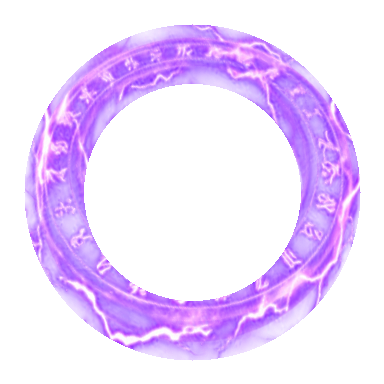
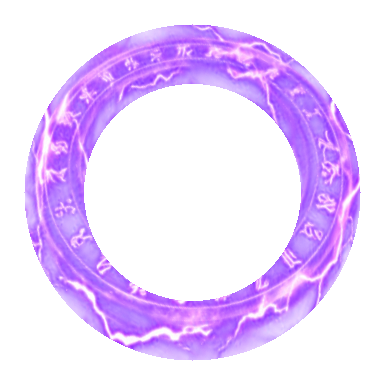
天堂網頁版：魂環顏色加濃（透明度收緊改輕、飽和度與亮度提高、呼吸最暗 88%）

diff --git a/天堂網頁版/index.html b/天堂網頁版/index.html
@@ -70,5 +70,5 @@
 <script defer src="data/item-use-data.js?v=20261105-clean17"></script>
 <script defer src="data/db-native-catalog.js?v=1"></script><script defer src="data/item-icon-overrides.js?v=clan-scroll2"></script><script defer src="data/book-icons.js?v=1"></script><script defer src="data/db-active-settings.js?v=1"></script><script defer src="data/owned-inventory.js?v=abilities1"></script>
 <script defer src="data/inventory-tools.js?v=auto-sell1"></script><script defer src="data/classic-panels.js?v=abilities1"></script>
-<script defer src="data/reference-hud.js?v=darkelf-art2"></script><script defer src="data/reference-menu.js?v=level-quests1"></script><script defer src="data/reference-skin.js?v=level-quests1"></script><script defer src="data/game-catalog-data.js?v=sys1"></script><script defer src="data/doll-dedup.js?v=1"></script><script defer src="data/transform-cards-data.js?v=original-polys1"></script><script defer src="data/monster-action-index.js?v=1"></script><script defer src="data/morph-weapon-data.js?v=1"></script><script defer src="data/death-knight-layer-data.js?v=1"></script><script defer src="data/death-knight-original-data.js?v=1"></script><script defer src="data/original-polymorph-extra-data.js?v=3"></script><script defer src="data/bow-attack-data.js?v=1"></script><script defer src="data/monster-actions.js?v=bow-animation1"></script><script defer src="data/island-monster-data.js?v=native-source1"></script><script defer src="data/dungeon-monster-data.js?v=forgotten-islands1"></script><script defer src="data/npc-clothes-data.js?v=1"></script><script defer src="data/monster-layer-data.js?v=1"></script><script defer src="data/monster-death-data.js?v=1"></script><script defer src="data/island-npc-ai.js?v=mummy-core-delay2"></script><script defer src="data/teleporter-data.js?v=1"></script><script defer src="data/island-monsters.js?v=level-quests1"></script><script defer src="data/npc-context.js?v=1"></script><script defer src="data/fake-players.js?v=independent-hunt1"></script><script defer src="data/island-combat.js?v=dex-ranged1"></script><script defer src="data/extra-transform-cards-data.js?v=all-original2"></script><script defer src="data/transform-weapon-rules.js?v=bow-animation1"></script><script defer src="data/transform-cards.js?v=all-original2"></script><script defer src="data/equipment-collection.js?v=separate-catalog-menu1"></script><script defer src="data/game-catalog.js?v=soul-slots1"></script><script defer src="data/tdj-systems-data.js?v=wuhun-gilr50"></script><script defer src="data/wuhun-boss-loop-data.js?v=1"></script><script defer src="data/wuhun-boss-gesture-data.js?v=1"></script><script defer src="data/wuhun-auto-data.js?v=wuhun-body1"></script><script defer src="data/wuhun-more-effects.js?v=1"></script><script defer src="data/wuhun-auto-cast.js?v=long-pause1"></script><script defer src="data/tdj-systems.js?v=ring-art3"></script><script defer src="data/soul-rings.js?v=soul-slots1"></script><script defer src="data/music-zones-data.js?v=1"></script><script defer src="data/island-music.js?v=zones1"></script><script defer src="data/combat-sound-data.js?v=2"></script><script defer src="data/combat-sound.js?v=1"></script><script defer src="data/island-npc-service-data.js?v=1"></script><script defer src="data/native-npc-dialog-data.js?v=1"></script><script defer src="data/native-npc-dialogs.js?v=no-craft-npc1"></script><script defer src="data/island-npc-services.js?v=no-craft-npc1"></script><script defer src="data/player-skill-data.js?v=1"></script><script defer src="data/extra-class-skills.js?v=1"></script><script defer src="data/player-skills.js?v=abilities1"></script><script defer src="data/kill-reward-data.js?v=native-source1"></script><script defer src="data/removed-items.js?v=1"></script><script defer src="data/player-progression.js?v=soul-rings1"></script><script defer src="data/player-growth-data.js?v=darkelf1"></script><script defer src="data/player-growth.js?v=combat-audit1"></script><script defer src="data/database/manifest.js?v=1"></script><script defer src="data/game-database.js?v=1"></script><script defer src="data/db-game-rules.js?v=death-proof1"></script><script defer src="data/local-server-client.js?v=lawful-colors1"></script><script defer src="data/native-potions.js?v=status-colors1"></script><script defer src="data/quick-slots.js?v=wheel2"></script><script defer src="data/quick-slot-settings.js?v=1"></script><script defer src="data/background-play.js?v=quick-home1"></script><script defer src="data/bag-details.js?v=multi-windows1"></script><script defer src="data/map-region-labels.js?v=1"></script><script defer src="data/map-overview.js?v=dungeon1"></script><script defer src="data/teleport-map-rules.js?v=quick-home1"></script><script defer src="data/teleport-scrolls.js?v=dungeon1"></script><script defer src="data/npc-effect-data.js?v=1"></script><script defer src="data/potion-effect-data.js?v=all-potions2"></script><script defer src="data/npc-effect-renderer.js?v=all-potions2"></script><script defer src="data/screen-settings.js?v=1"></script><script defer src="data/bookmarks.js?v=dungeon1"></script><script defer src="data/floating-windows.js?v=1"></script><script defer src="data/teleporter-services.js?v=1"></script><script defer src="data/auto-sell-data.js?v=1"></script><script defer src="data/auto-sell.js?v=1"></script><script defer src="data/auto-potion.js?v=abilities1"></script><script defer src="data/assist-system.js?v=abilities1"></script><script defer src="data/item-effects.js?v=2"></script><script defer src="data/player-stall.js?v=5"></script><script defer src="data/crafting-window.js?v=death-proof1"></script><script defer src="data/level-quest-data.js?v=10"></script><script defer src="data/level-quest-frames.js?v=5"></script><script defer src="data/level-quests.js?v=2"></script><script defer src="data/native-combat-rules.js?v=mummy-core-delay2"></script><script defer src="data/navigation-connectivity-data.js?v=native-source1"></script><script defer src="data/navigation-connectivity.js?v=dungeon1"></script><script defer src="data/native-collision-data.js?v=1"></script><script defer src="data/native-dungeon-maps.js?v=forgotten-islands1"></script><script defer src="data/native-collision.js?v=dungeon1"></script><script defer src="data/native-world-worker.js?v=4"></script><script defer src="data/region-background-index.js?v=forgotten-islands1"></script><script defer src="data/region-background.js?v=1"></script><script defer src="data/native-world.js?v=region-background1"></script><script defer src="data/dungeon-portals.js?v=1"></script><script defer src="data/class-buffs.js?v=mummy-core-delay2"></script><script defer src="data/summons.js?v=9"></script><script defer src="data/native-player-panels.js?v=1"></script><script defer src="data/character-bag-panels.js?v=mummy-core-delay2"></script><script defer src="data/client-classic-hud.js?v=13"></script><script defer src="data/orb-hud.js?v=round-menu18"></script><script defer src="data/overhead-bars.js?v=3"></script><script defer src="data/settings-panel.js?v=power-saving1"></script><script defer src="data/npc-social.js?v=npc-retaliation-potions1"></script><script defer src="data/diamond-commerce.js?v=1"></script><script defer src="data/portable-teleport-data.js?v=forgotten-islands1"></script><script defer src="data/portable-teleport.js?v=forgotten-islands1"></script><script defer src="data/area-loot.js?v=1"></script><script defer src="data/party-hud.js?v=1"></script><script defer src="data/player-appearance.js?v=1"></script></html>
+<script defer src="data/reference-hud.js?v=darkelf-art2"></script><script defer src="data/reference-menu.js?v=level-quests1"></script><script defer src="data/reference-skin.js?v=level-quests1"></script><script defer src="data/game-catalog-data.js?v=sys1"></script><script defer src="data/doll-dedup.js?v=1"></script><script defer src="data/transform-cards-data.js?v=original-polys1"></script><script defer src="data/monster-action-index.js?v=1"></script><script defer src="data/morph-weapon-data.js?v=1"></script><script defer src="data/death-knight-layer-data.js?v=1"></script><script defer src="data/death-knight-original-data.js?v=1"></script><script defer src="data/original-polymorph-extra-data.js?v=3"></script><script defer src="data/bow-attack-data.js?v=1"></script><script defer src="data/monster-actions.js?v=bow-animation1"></script><script defer src="data/island-monster-data.js?v=native-source1"></script><script defer src="data/dungeon-monster-data.js?v=forgotten-islands1"></script><script defer src="data/npc-clothes-data.js?v=1"></script><script defer src="data/monster-layer-data.js?v=1"></script><script defer src="data/monster-death-data.js?v=1"></script><script defer src="data/island-npc-ai.js?v=mummy-core-delay2"></script><script defer src="data/teleporter-data.js?v=1"></script><script defer src="data/island-monsters.js?v=level-quests1"></script><script defer src="data/npc-context.js?v=1"></script><script defer src="data/fake-players.js?v=independent-hunt1"></script><script defer src="data/island-combat.js?v=dex-ranged1"></script><script defer src="data/extra-transform-cards-data.js?v=all-original2"></script><script defer src="data/transform-weapon-rules.js?v=bow-animation1"></script><script defer src="data/transform-cards.js?v=all-original2"></script><script defer src="data/equipment-collection.js?v=separate-catalog-menu1"></script><script defer src="data/game-catalog.js?v=soul-slots1"></script><script defer src="data/tdj-systems-data.js?v=wuhun-gilr50"></script><script defer src="data/wuhun-boss-loop-data.js?v=1"></script><script defer src="data/wuhun-boss-gesture-data.js?v=1"></script><script defer src="data/wuhun-auto-data.js?v=wuhun-body1"></script><script defer src="data/wuhun-more-effects.js?v=1"></script><script defer src="data/wuhun-auto-cast.js?v=long-pause1"></script><script defer src="data/tdj-systems.js?v=ring-art4"></script><script defer src="data/soul-rings.js?v=soul-slots1"></script><script defer src="data/music-zones-data.js?v=1"></script><script defer src="data/island-music.js?v=zones1"></script><script defer src="data/combat-sound-data.js?v=2"></script><script defer src="data/combat-sound.js?v=1"></script><script defer src="data/island-npc-service-data.js?v=1"></script><script defer src="data/native-npc-dialog-data.js?v=1"></script><script defer src="data/native-npc-dialogs.js?v=no-craft-npc1"></script><script defer src="data/island-npc-services.js?v=no-craft-npc1"></script><script defer src="data/player-skill-data.js?v=1"></script><script defer src="data/extra-class-skills.js?v=1"></script><script defer src="data/player-skills.js?v=abilities1"></script><script defer src="data/kill-reward-data.js?v=native-source1"></script><script defer src="data/removed-items.js?v=1"></script><script defer src="data/player-progression.js?v=soul-rings1"></script><script defer src="data/player-growth-data.js?v=darkelf1"></script><script defer src="data/player-growth.js?v=combat-audit1"></script><script defer src="data/database/manifest.js?v=1"></script><script defer src="data/game-database.js?v=1"></script><script defer src="data/db-game-rules.js?v=death-proof1"></script><script defer src="data/local-server-client.js?v=lawful-colors1"></script><script defer src="data/native-potions.js?v=status-colors1"></script><script defer src="data/quick-slots.js?v=wheel2"></script><script defer src="data/quick-slot-settings.js?v=1"></script><script defer src="data/background-play.js?v=quick-home1"></script><script defer src="data/bag-details.js?v=multi-windows1"></script><script defer src="data/map-region-labels.js?v=1"></script><script defer src="data/map-overview.js?v=dungeon1"></script><script defer src="data/teleport-map-rules.js?v=quick-home1"></script><script defer src="data/teleport-scrolls.js?v=dungeon1"></script><script defer src="data/npc-effect-data.js?v=1"></script><script defer src="data/potion-effect-data.js?v=all-potions2"></script><script defer src="data/npc-effect-renderer.js?v=all-potions2"></script><script defer src="data/screen-settings.js?v=1"></script><script defer src="data/bookmarks.js?v=dungeon1"></script><script defer src="data/floating-windows.js?v=1"></script><script defer src="data/teleporter-services.js?v=1"></script><script defer src="data/auto-sell-data.js?v=1"></script><script defer src="data/auto-sell.js?v=1"></script><script defer src="data/auto-potion.js?v=abilities1"></script><script defer src="data/assist-system.js?v=abilities1"></script><script defer src="data/item-effects.js?v=2"></script><script defer src="data/player-stall.js?v=5"></script><script defer src="data/crafting-window.js?v=death-proof1"></script><script defer src="data/level-quest-data.js?v=10"></script><script defer src="data/level-quest-frames.js?v=5"></script><script defer src="data/level-quests.js?v=2"></script><script defer src="data/native-combat-rules.js?v=mummy-core-delay2"></script><script defer src="data/navigation-connectivity-data.js?v=native-source1"></script><script defer src="data/navigation-connectivity.js?v=dungeon1"></script><script defer src="data/native-collision-data.js?v=1"></script><script defer src="data/native-dungeon-maps.js?v=forgotten-islands1"></script><script defer src="data/native-collision.js?v=dungeon1"></script><script defer src="data/native-world-worker.js?v=4"></script><script defer src="data/region-background-index.js?v=forgotten-islands1"></script><script defer src="data/region-background.js?v=1"></script><script defer src="data/native-world.js?v=region-background1"></script><script defer src="data/dungeon-portals.js?v=1"></script><script defer src="data/class-buffs.js?v=mummy-core-delay2"></script><script defer src="data/summons.js?v=9"></script><script defer src="data/native-player-panels.js?v=1"></script><script defer src="data/character-bag-panels.js?v=mummy-core-delay2"></script><script defer src="data/client-classic-hud.js?v=13"></script><script defer src="data/orb-hud.js?v=round-menu18"></script><script defer src="data/overhead-bars.js?v=3"></script><script defer src="data/settings-panel.js?v=power-saving1"></script><script defer src="data/npc-social.js?v=npc-retaliation-potions1"></script><script defer src="data/diamond-commerce.js?v=1"></script><script defer src="data/portable-teleport-data.js?v=forgotten-islands1"></script><script defer src="data/portable-teleport.js?v=forgotten-islands1"></script><script defer src="data/area-loot.js?v=1"></script><script defer src="data/party-hud.js?v=1"></script><script defer src="data/player-appearance.js?v=1"></script></html>
 

diff --git a/天堂網頁版/data/tdj-systems.js b/天堂網頁版/data/tdj-systems.js
@@ -244,10 +244,10 @@ window.TdjSystems = (() => {
     '.tdj-rings{position:absolute;left:0;top:0;width:0;height:0;--s:1}' +
     '.tdj-ring{position:absolute;left:calc(var(--r) * var(--s) * -1px);top:calc(var(--r) * var(--s) * -1px);width:calc(var(--r) * var(--s) * 2px);height:calc(var(--r) * var(--s) * 2px);transform:translateY(calc(var(--s) * 2px)) scaleY(.42);animation:tdjRingPulse 2.6s ease-in-out infinite;animation-delay:var(--d)}' +
     // 魂環圖（assets/interface/wuhun-rings/ring-1～6.png，使用者給的六色魂環總圖由 tools/soul-ring-cut.ps1 切成透明正圓；環半徑＝圖寬 0.36）：整圈 scaleY 壓成地面，圖本身慢慢轉
-    '.tdj-ring img{position:absolute;left:-19.44%;top:-19.44%;width:138.89%;height:138.89%;max-width:none;pointer-events:none;animation:tdjRingSpin var(--t) linear infinite;filter:var(--tone,none) drop-shadow(0 0 calc(var(--s) * 3px) var(--g))}' +
+    '.tdj-ring img{position:absolute;left:-19.44%;top:-19.44%;width:138.89%;height:138.89%;max-width:none;pointer-events:none;animation:tdjRingSpin var(--t) linear infinite;filter:var(--tone,none) saturate(1.7) brightness(1.3) drop-shadow(0 0 calc(var(--s) * 4px) var(--g))}' +
     '.tdj-rings.idle .tdj-ring{opacity:.35;animation:none}' +
     '@keyframes tdjRingSpin{to{transform:rotate(360deg)}}' +
-    '@keyframes tdjRingPulse{0%,100%{opacity:.7}50%{opacity:1}}';
+    '@keyframes tdjRingPulse{0%,100%{opacity:.88}50%{opacity:1}}';
   document.head.append(style);
   const back = document.createElement('div'), front = document.createElement('div');
   back.className = front.className = 'tdj-layer';
